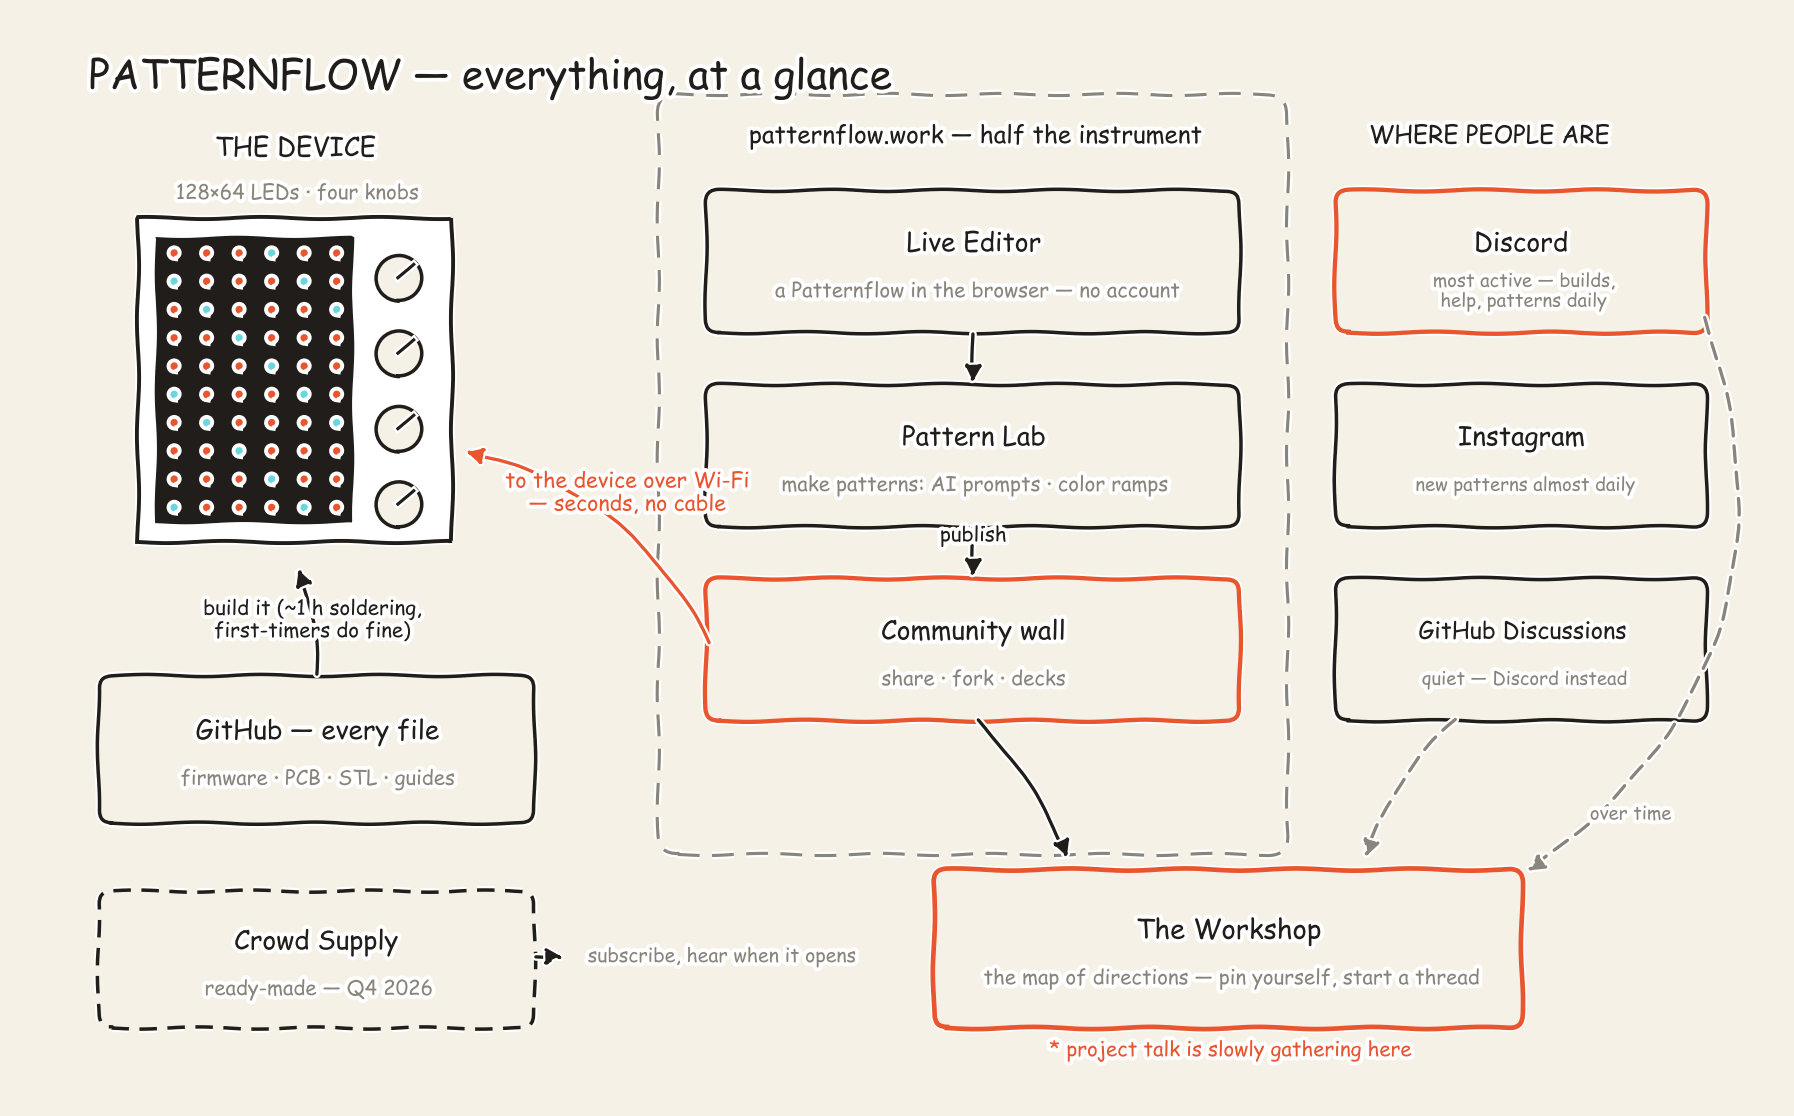
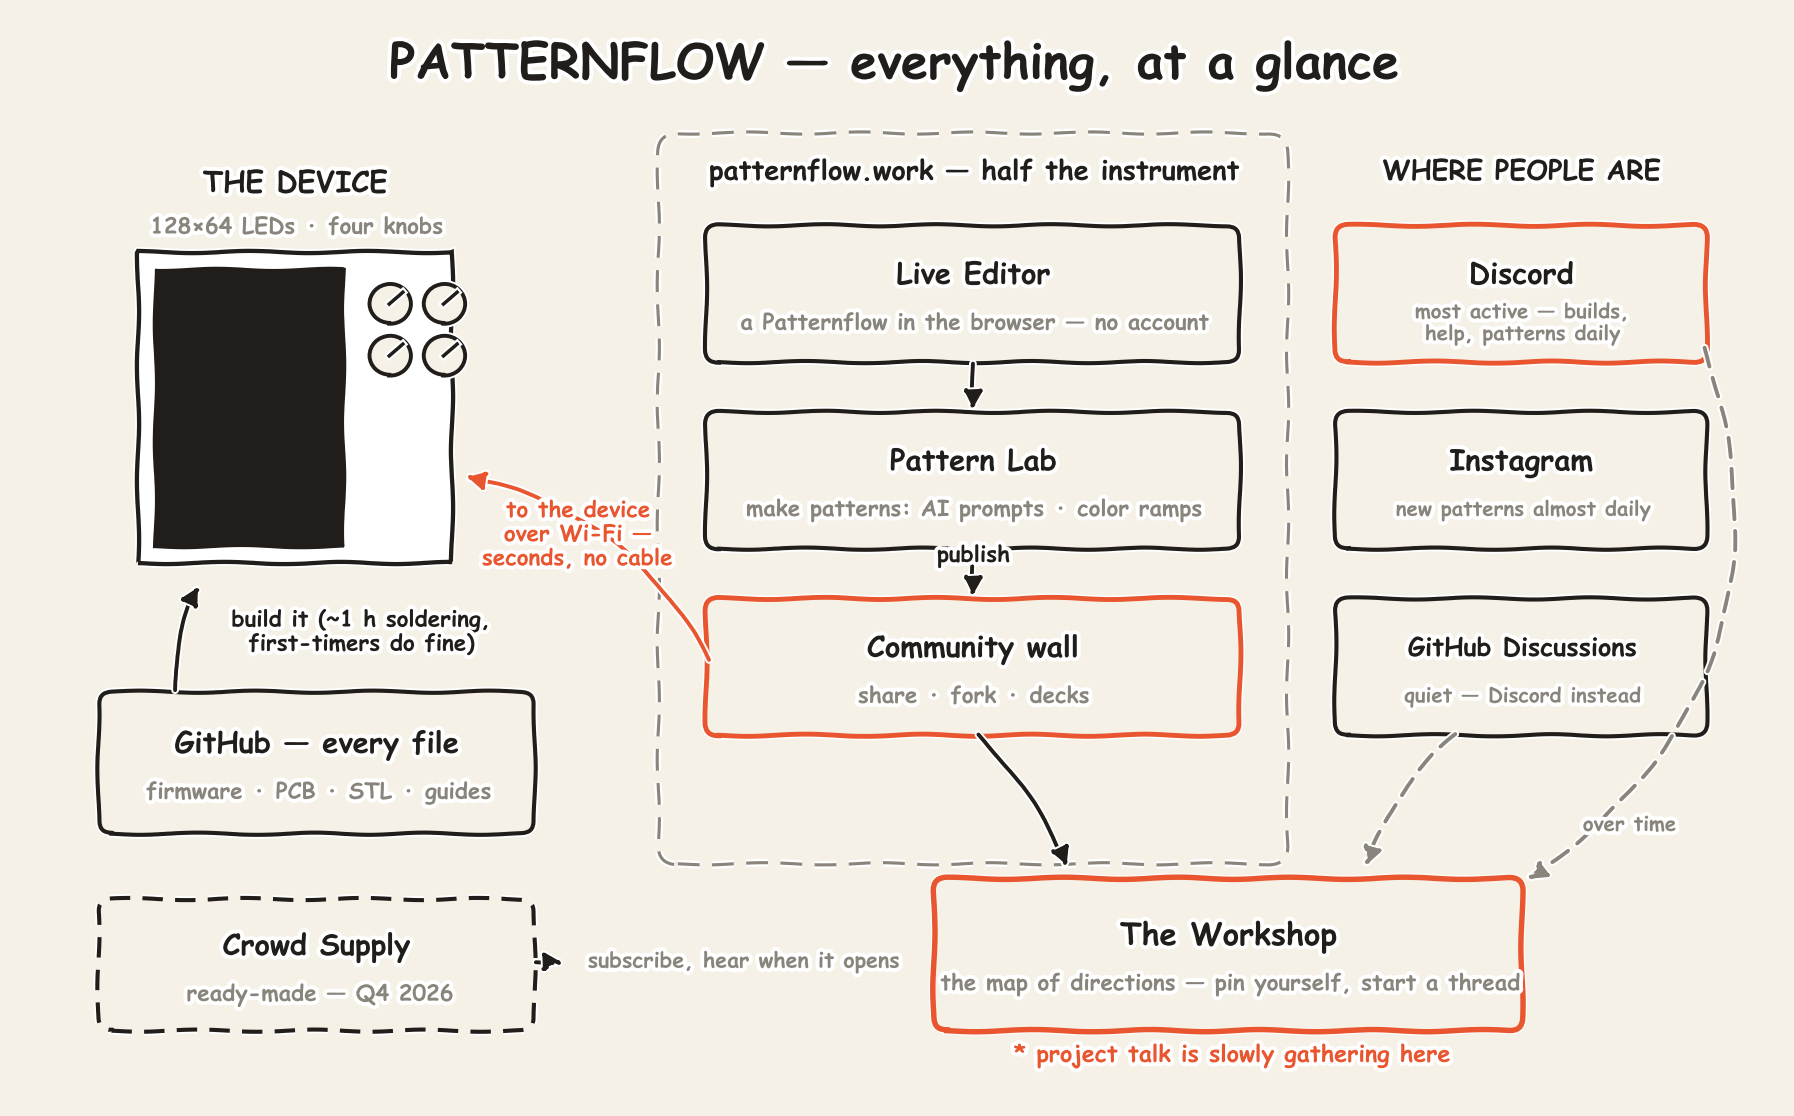
docs: at-a-glance v2 — the device drawn true, and everything louder
The knobs are a 2×2 block at the panel's top right, because that is where
they are on the actual device — the sketch was drawing a column of four that
exists nowhere. The LED dot grid goes too: a clean dark panel reads better at
napkin scale.

All lettering steps up a size and goes bold (the xkcd hand wobbles harder
with weight behind it), the title moves to the top centre with clear air
around it, and the left-middle band is rearranged so the build-it arrow rides
the margin instead of stabbing through its own caption.

diff --git a/docs/media/at-a-glance.py b/docs/media/at-a-glance.py
@@ -21,12 +21,13 @@ FAINT = "#8A857C"
 
 plt.xkcd(scale=1.1, length=120, randomness=1.6)
 plt.rcParams["font.family"] = ["Comic Sans MS", "DejaVu Sans"]
+plt.rcParams["font.weight"] = "bold"
 
 fig, ax = plt.subplots(figsize=(16, 10), dpi=140)
 fig.patch.set_facecolor(CREAM)
 ax.set_facecolor(CREAM)
 ax.set_xlim(0, 16)
-ax.set_ylim(0, 10)
+ax.set_ylim(0, 10.4)
 ax.axis("off")
 for spine in ax.spines.values():
     spine.set_visible(False)
@@ -39,7 +40,7 @@ ax.patch.set_visible(False)
 fig.patch.set_edgecolor("none")
 
 
-def box(x, y, w, h, title, sub=None, edge=INK, dashed=False, lw=1.8, title_size=13.5, sub_size=10.5):
+def box(x, y, w, h, title, sub=None, edge=INK, dashed=False, lw=2.1, title_size=15, sub_size=11.5):
     ax.add_patch(
         FancyBboxPatch(
             (x, y), w, h,
@@ -49,16 +50,16 @@ def box(x, y, w, h, title, sub=None, edge=INK, dashed=False, lw=1.8, title_size=
     )
     cy = y + h / 2
     if sub:
-        ax.text(x + w / 2, cy + 0.16, title, ha="center", va="center", fontsize=title_size, color=INK)
-        ax.text(x + w / 2, cy - 0.28, sub, ha="center", va="center", fontsize=sub_size, color=FAINT)
+        ax.text(x + w / 2, cy + 0.17, title, ha="center", va="center", fontsize=title_size, color=INK)
+        ax.text(x + w / 2, cy - 0.29, sub, ha="center", va="center", fontsize=sub_size, color=FAINT)
     else:
         ax.text(x + w / 2, cy, title, ha="center", va="center", fontsize=title_size, color=INK)
 
 
-def arrow(p1, p2, label=None, rad=0.0, color=INK, dashed=False, label_dy=0.22, fontsize=10.5, label_at=0.5):
+def arrow(p1, p2, label=None, rad=0.0, color=INK, dashed=False, label_dy=0.22, fontsize=11.5, label_at=0.5):
     ax.add_patch(
         FancyArrowPatch(
-            p1, p2, arrowstyle="-|>", mutation_scale=18, lw=1.7,
+            p1, p2, arrowstyle="-|>", mutation_scale=20, lw=2.0,
             color=color, ls=(0, (5, 3)) if dashed else "-",
             connectionstyle=f"arc3,rad={rad}", shrinkA=4, shrinkB=4,
         )
@@ -69,37 +70,34 @@ def arrow(p1, p2, label=None, rad=0.0, color=INK, dashed=False, label_dy=0.22, f
         ax.text(mx, my + label_dy, label, ha="center", va="bottom", fontsize=fontsize, color=color)
 
 
-# ── Title ────────────────────────────────────────────────────────────────────
-ax.text(0.55, 9.45, "PATTERNFLOW — everything, at a glance", fontsize=21, color=INK, va="center")
+# ── Title — centred, floated clear of everything ─────────────────────────────
+ax.text(8.0, 9.95, "PATTERNFLOW — everything, at a glance", fontsize=25, color=INK,
+        ha="center", va="center")
 
 # ── The device (a little drawing, not a box) ────────────────────────────────
 dx, dy, dw, dh = 1.0, 5.15, 2.9, 3.0
-ax.add_patch(Rectangle((dx, dy), dw, dh, fc="white", ec=INK, lw=2.0))
-# LED panel: left two-thirds, dark with a dot grid
-px, py, pw, ph = dx + 0.18, dy + 0.18, dw * 0.62, dh - 0.36
+ax.add_patch(Rectangle((dx, dy), dw, dh, fc="white", ec=INK, lw=2.2))
+# LED panel: the left side, clean and dark — the light does the talking
+px, py, pw, ph = dx + 0.16, dy + 0.16, dw * 0.60, dh - 0.32
 ax.add_patch(Rectangle((px, py), pw, ph, fc=INK, ec=INK, lw=1.2))
-for gx in range(6):
-    for gy in range(10):
-        ax.add_patch(
-            Circle(
-                (px + 0.16 + gx * (pw - 0.3) / 5, py + 0.14 + gy * (ph - 0.28) / 9),
-                0.028, fc=ORANGE if (gx * 7 + gy * 3) % 4 else "#68d7e0", ec="none",
-            )
-        )
-# four knobs on the right column
-for i, ky in enumerate([dy + dh - 0.55, dy + dh - 1.25, dy + dh - 1.95, dy + dh - 2.65]):
-    ax.add_patch(Circle((dx + dw - 0.5, ky), 0.21, fc=CREAM, ec=INK, lw=1.8))
-    ax.plot([dx + dw - 0.5, dx + dw - 0.36], [ky, ky + 0.13], color=INK, lw=1.6)
-ax.text(dx + dw / 2, dy + dh + 0.58, "THE DEVICE", fontsize=13.5, ha="center", color=INK)
-ax.text(dx + dw / 2, dy + dh + 0.18, "128×64 LEDs · four knobs", fontsize=10.5, ha="center", color=FAINT)
+# knobs: a 2×2 block at the top-right, like the real thing
+knob_r = 0.19
+kx1, kx2 = px + pw + 0.42, px + pw + 0.92
+ky1, ky2 = dy + dh - 0.5, dy + dh - 1.0
+for kx, ky in [(kx1, ky1), (kx2, ky1), (kx1, ky2), (kx2, ky2)]:
+    ax.add_patch(Circle((kx, ky), knob_r, fc=CREAM, ec=INK, lw=2.0))
+    ax.plot([kx, kx + 0.12], [ky, ky + 0.12], color=INK, lw=1.8)
+ax.text(dx + dw / 2, dy + dh + 0.58, "THE DEVICE", fontsize=15, ha="center", color=INK)
+ax.text(dx + dw / 2, dy + dh + 0.18, "128×64 LEDs · four knobs", fontsize=11.5, ha="center", color=FAINT)
 
 # ── Ways to get one ──────────────────────────────────────────────────────────
 box(0.7, 2.6, 3.9, 1.25, "GitHub — every file", "firmware · PCB · STL · guides")
 box(0.7, 0.7, 3.9, 1.15, "Crowd Supply", "ready-made — Q4 2026", dashed=True)
-arrow((2.65, 3.85), (2.45, 4.97), rad=0.12)
-ax.text(2.6, 4.42, "build it (~1 h soldering,\nfirst-timers do fine)", fontsize=10.5, ha="center", va="center", color=INK)
+# arrow rides the left edge; the label gets the open cream to its right
+arrow((1.35, 3.85), (1.6, 5.0), rad=-0.15)
+ax.text(3.05, 4.48, "build it (~1 h soldering,\nfirst-timers do fine)", fontsize=11.5, ha="center", va="center", color=INK)
 arrow((4.6, 1.3), (5.0, 1.3), rad=0.0, dashed=True)  # stub toward the margin note
-ax.text(5.15, 1.3, "subscribe, hear when it opens", fontsize=10, color=FAINT, va="center")
+ax.text(5.15, 1.3, "subscribe, hear when it opens", fontsize=11, color=FAINT, va="center")
 
 # ── patternflow.work (the web half) ──────────────────────────────────────────
 ax.add_patch(
@@ -109,32 +107,32 @@ ax.add_patch(
         fc="none", ec=FAINT, lw=1.6, ls=(0, (7, 4)),
     )
 )
-ax.text(8.7, 8.85, "patternflow.work — half the instrument", fontsize=12.5, ha="center", color=INK)
+ax.text(8.7, 8.85, "patternflow.work — half the instrument", fontsize=14, ha="center", color=INK)
 
 box(6.3, 7.15, 4.8, 1.2, "Live Editor", "a Patternflow in the browser — no account")
 box(6.3, 5.35, 4.8, 1.2, "Pattern Lab", "make patterns: AI prompts · color ramps")
-box(6.3, 3.55, 4.8, 1.2, "Community wall", "share · fork · decks", edge=ORANGE, lw=2.2)
+box(6.3, 3.55, 4.8, 1.2, "Community wall", "share · fork · decks", edge=ORANGE, lw=2.5)
 arrow((8.7, 7.15), (8.7, 6.55))
 arrow((8.7, 5.35), (8.7, 4.75), label="publish", label_dy=0.02, label_at=0.45)
 
 # the one arrow that says the whole point: web -> device, wireless, seconds
 arrow((6.3, 4.15), (3.95, 6.0), rad=0.25, color=ORANGE)
-ax.text(5.5, 5.6, "to the device over Wi-Fi\n— seconds, no cable", fontsize=11, ha="center", va="center", color=ORANGE)
+ax.text(5.05, 5.42, "to the device\nover Wi-Fi —\nseconds, no cable", fontsize=11.5, ha="center", va="center", color=ORANGE)
 
 # ── Where people are ─────────────────────────────────────────────────────────
-ax.text(12.35, 8.85, "WHERE PEOPLE ARE", fontsize=12.5, color=INK)
-box(12.1, 7.15, 3.3, 1.2, "Discord", "most active — builds,\nhelp, patterns daily", edge=ORANGE, lw=2.2, sub_size=9.5)
-box(12.1, 5.35, 3.3, 1.2, "Instagram", "new patterns almost daily", sub_size=9.5)
-box(12.1, 3.55, 3.3, 1.2, "GitHub Discussions", "quiet — Discord instead", sub_size=9.5, title_size=12)
+ax.text(13.75, 8.85, "WHERE PEOPLE ARE", fontsize=14, ha="center", color=INK)
+box(12.1, 7.15, 3.3, 1.2, "Discord", "most active — builds,\nhelp, patterns daily", edge=ORANGE, lw=2.5, sub_size=10.5)
+box(12.1, 5.35, 3.3, 1.2, "Instagram", "new patterns almost daily", sub_size=10.5)
+box(12.1, 3.55, 3.3, 1.2, "GitHub Discussions", "quiet — Discord instead", sub_size=10.5, title_size=13)
 
 # ── The Workshop — where it is all heading ───────────────────────────────────
 box(8.4, 0.7, 5.3, 1.35, "The Workshop", "the map of directions — pin yourself, start a thread",
-    edge=ORANGE, lw=2.4, title_size=14)
-ax.text(11.05, 0.38, "* project talk is slowly gathering here", fontsize=10.5, ha="center", color=ORANGE)
+    edge=ORANGE, lw=2.8, title_size=16)
+ax.text(11.05, 0.34, "* project talk is slowly gathering here", fontsize=12, ha="center", color=ORANGE)
 arrow((8.7, 3.55), (9.6, 2.15), rad=-0.1)
 arrow((13.2, 3.55), (12.3, 2.15), rad=0.15, dashed=True, color=FAINT)
 arrow((15.42, 7.3), (13.75, 2.05), rad=-0.38, dashed=True, color=FAINT)
-ax.text(14.75, 2.62, "over time", fontsize=9.5, ha="center", va="center", color=FAINT)
+ax.text(14.75, 2.62, "over time", fontsize=10.5, ha="center", va="center", color=FAINT)
 
 out = "docs/media/at-a-glance.png"
 fig.savefig(out, bbox_inches="tight", facecolor=CREAM, pad_inches=0.25)
